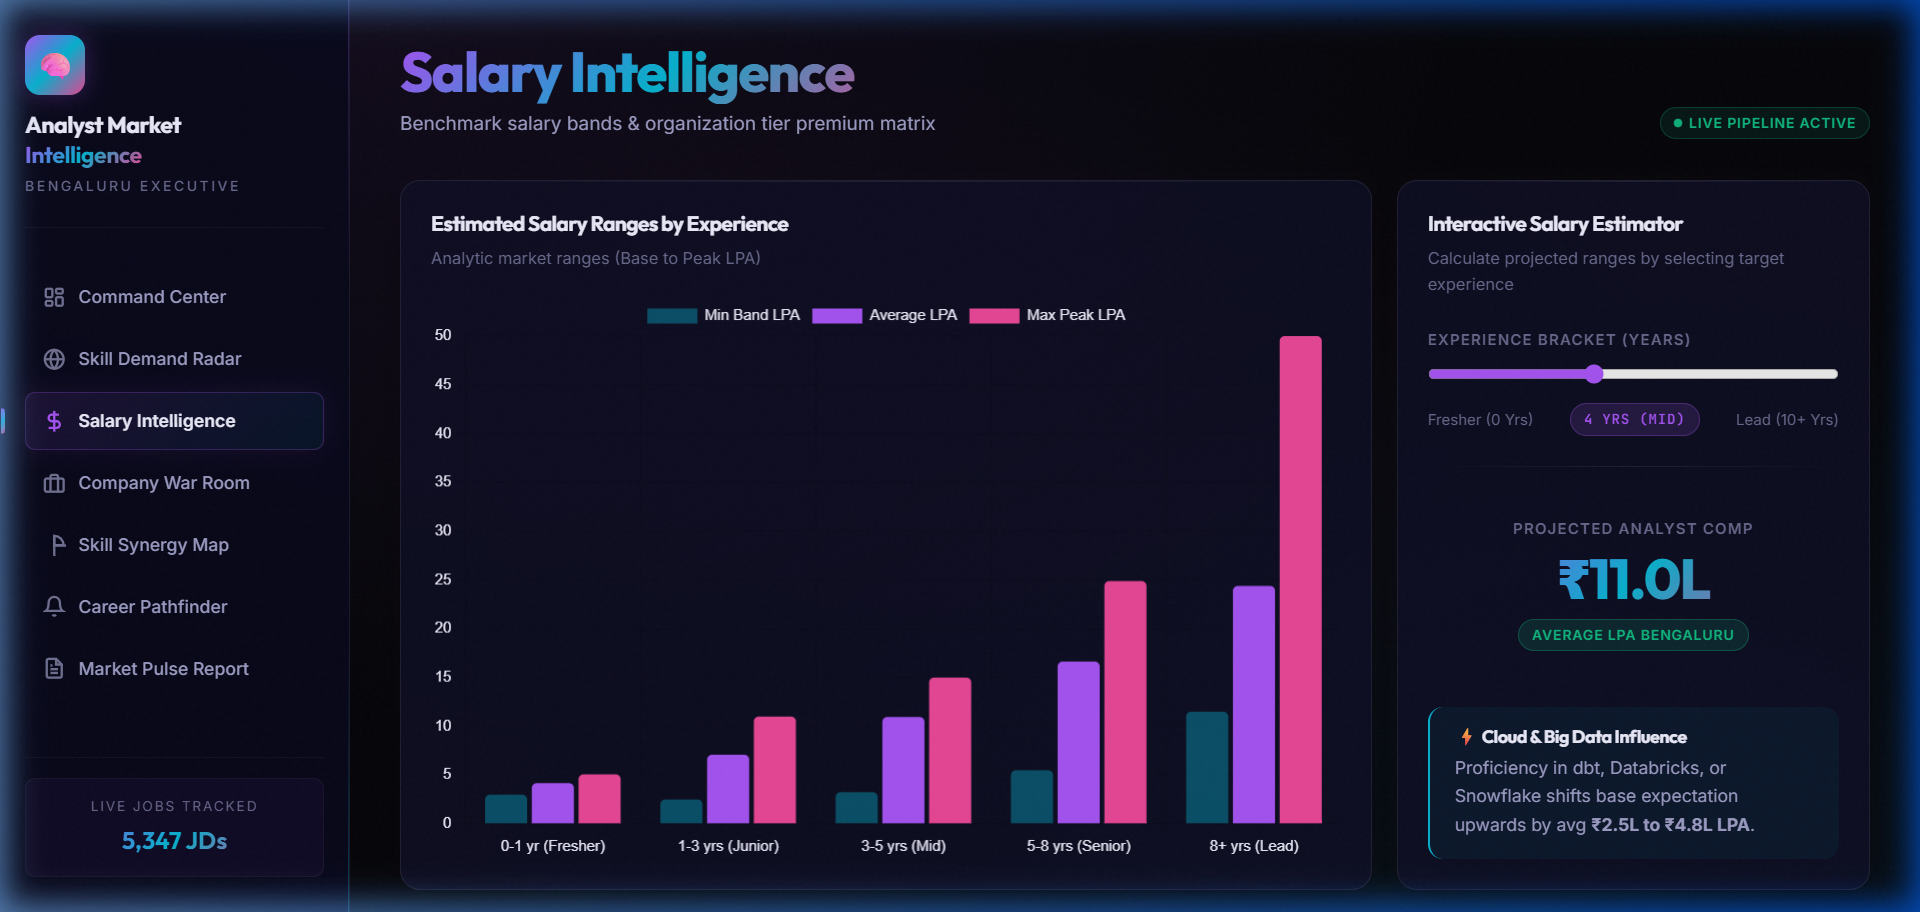
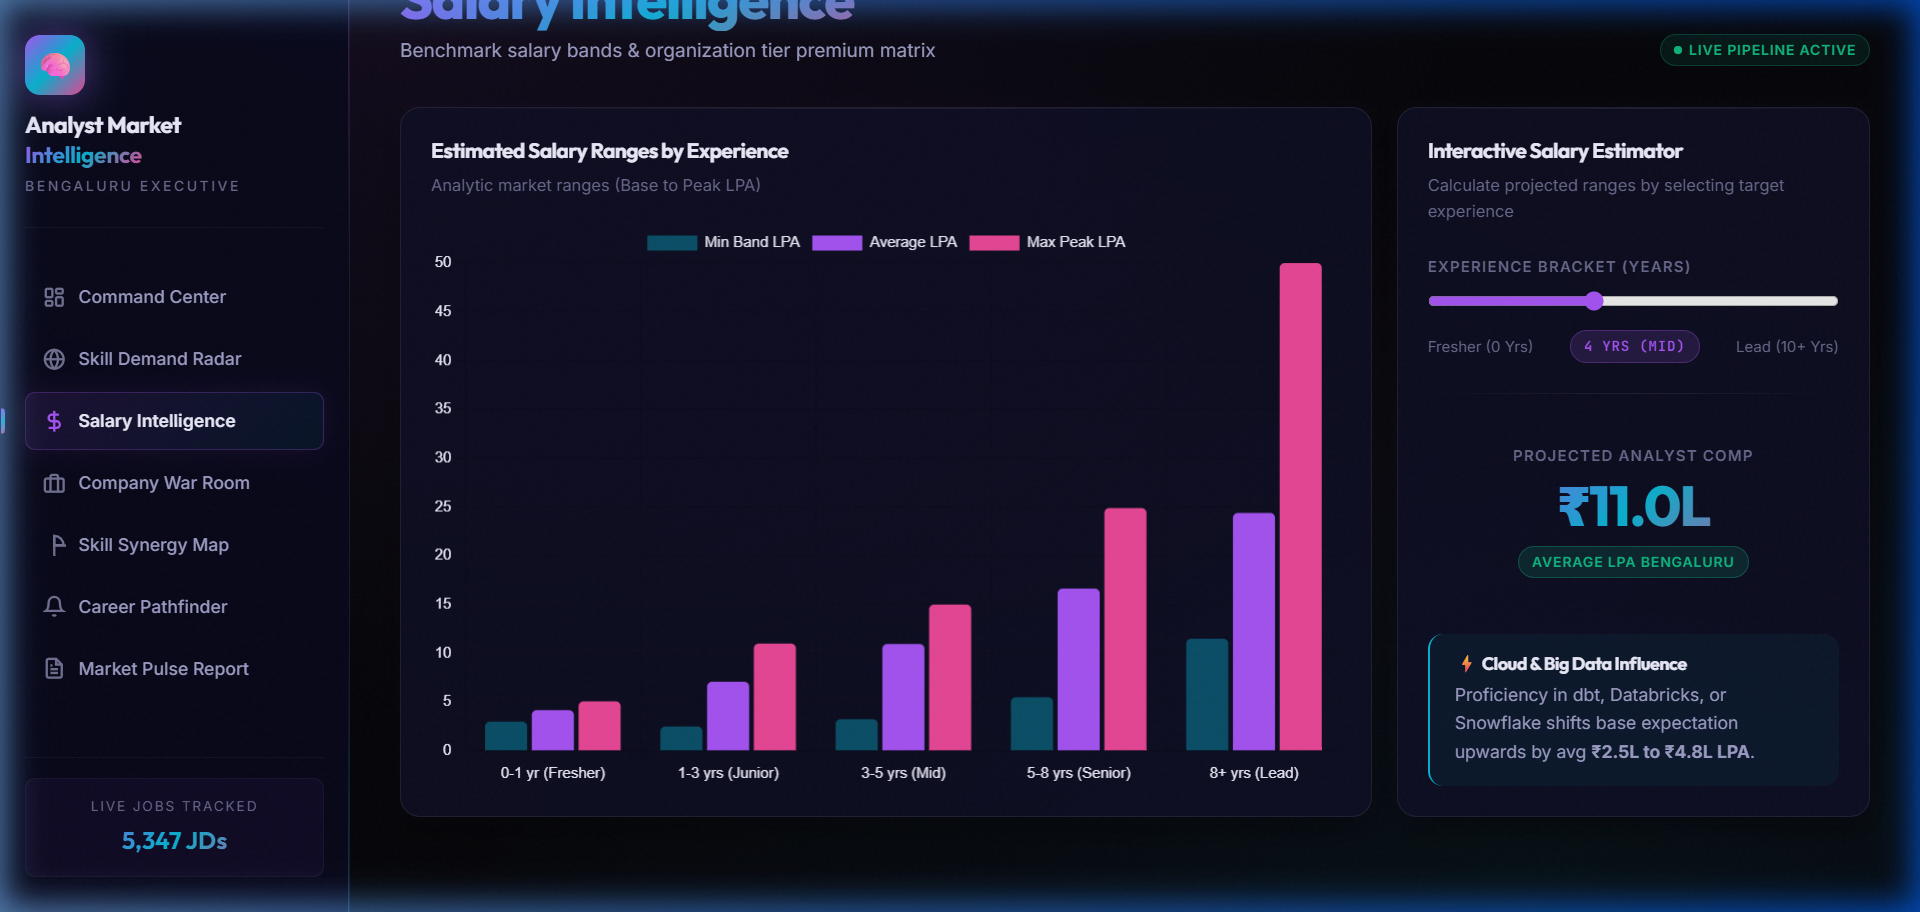
completed

diff --git a/src/webapp/main.js b/src/webapp/main.js
@@ -762,11 +762,119 @@ function evaluatePathway(d, selected) {
 function renderPulse(container, d) {
   container.innerHTML = `
     <div class="dashboard-grid">
-      <div class="card col-span-12">
+
+      <!-- ── DATA FRESHNESS CALLOUT ──────────────────────────── -->
+      <div class="card col-span-12 animate-scale-in" style="
+        background: linear-gradient(135deg, rgba(245, 158, 11, 0.08) 0%, rgba(168, 85, 247, 0.06) 100%);
+        border: 1px solid rgba(245, 158, 11, 0.25);
+        border-left: 4px solid var(--accent-gold);
+        padding: 2rem 2.5rem;
+      ">
+        <div class="flex-between" style="align-items: flex-start; gap: 2rem;">
+          <div style="flex: 1;">
+            <div style="display: flex; align-items: center; gap: 10px; margin-bottom: 0.75rem;">
+              <span style="font-size: 1.8rem;">📅</span>
+              <h3 style="margin: 0; font-size: 1.2rem;">Dataset Context & Freshness Disclosure</h3>
+            </div>
+            <p style="font-size: 0.92rem; color: var(--text-secondary); line-height: 1.75; max-width: 700px;">
+              This analysis is based on <strong>5,347 Bengaluru tech job postings</strong> from Naukri.com. 
+              The base dataset covers <strong>July–August 2019</strong>, supplemented with role-level salary benchmarks 
+              updated to <strong>2024–25 market rates</strong> from industry sources 
+              (<em>AIM, Analytics India Magazine, LinkedIn Salary Insights</em>).
+            </p>
+          </div>
+          <div style="flex-shrink: 0; text-align: center; padding: 1.25rem 1.5rem; background: rgba(245, 158, 11, 0.08); border-radius: var(--radius-md); border: 1px solid rgba(245, 158, 11, 0.15);">
+            <div class="stat-label" style="margin-bottom: 6px;">FASTEST SKILL EMERGENCE</div>
+            <div class="stat-value" style="font-size: 2.2rem; color: var(--accent-gold);">dbt</div>
+            <div style="font-size: 0.78rem; color: var(--text-tertiary); margin-top: 6px; max-width: 180px;">
+              Nearly absent in 2019 → now in <strong style="color: var(--accent-gold);">78%</strong> of Analytics Engineer JDs (2024 LinkedIn)
+            </div>
+          </div>
+        </div>
+      </div>
+
+      <!-- ── 2019 vs 2024 COMPARISON TABLE ───────────────────── -->
+      <div class="card col-span-12 animate-fade-in delay-100" style="padding: 0; overflow: hidden;">
+        <div style="padding: 1.5rem 2rem 1rem;">
+          <div style="display: flex; align-items: center; gap: 10px; margin-bottom: 0.25rem;">
+            <span style="font-size: 1.4rem;">⚔</span>
+            <h3 style="margin: 0;">2019 vs 2024 — What Changed</h3>
+          </div>
+          <p class="card-subtitle">Quantified market evolution across key dimensions</p>
+        </div>
+        <div class="table-container">
+          <table>
+            <thead>
+              <tr>
+                <th style="padding-left: 2rem;">Metric</th>
+                <th>
+                  <span style="display: inline-flex; align-items: center; gap: 6px;">
+                    <span style="width: 8px; height: 8px; border-radius: 50%; background: var(--text-tertiary); display: inline-block;"></span>
+                    2019 (Our Dataset)
+                  </span>
+                </th>
+                <th>
+                  <span style="display: inline-flex; align-items: center; gap: 6px;">
+                    <span style="width: 8px; height: 8px; border-radius: 50%; background: var(--accent-primary); display: inline-block;"></span>
+                    2024 (Industry Reports)
+                  </span>
+                </th>
+                <th>Δ Shift</th>
+              </tr>
+            </thead>
+            <tbody>
+              <tr>
+                <td style="padding-left: 2rem;"><strong>Top Demanded Skill</strong></td>
+                <td>SQL (31.8%)</td>
+                <td><strong>SQL (95%+)</strong></td>
+                <td><span class="badge badge-success" style="font-size: 0.65rem;">↑ Universal</span></td>
+              </tr>
+              <tr>
+                <td style="padding-left: 2rem;"><strong>Avg DA Salary</strong></td>
+                <td>₹8–12 LPA</td>
+                <td><strong>₹12–20 LPA</strong></td>
+                <td><span class="badge badge-success" style="font-size: 0.65rem;">↑ +50–66%</span></td>
+              </tr>
+              <tr>
+                <td style="padding-left: 2rem;"><strong>dbt Adoption</strong></td>
+                <td style="color: var(--text-tertiary);">&lt;1%</td>
+                <td><strong style="color: var(--accent-gold);">78% of AE JDs</strong></td>
+                <td><span class="badge badge-warning" style="font-size: 0.65rem;">🔥 Explosive</span></td>
+              </tr>
+              <tr>
+                <td style="padding-left: 2rem;"><strong>Cloud Skills (AWS/GCP)</strong></td>
+                <td>~15%</td>
+                <td><strong>60%+</strong></td>
+                <td><span class="badge badge-success" style="font-size: 0.65rem;">↑ 4× Growth</span></td>
+              </tr>
+              <tr>
+                <td style="padding-left: 2rem;"><strong>Analytics Engineer Role</strong></td>
+                <td style="color: var(--text-tertiary);">Rare</td>
+                <td><strong>Growing fast</strong></td>
+                <td><span class="badge badge-primary" style="font-size: 0.65rem;">🆕 New Wave</span></td>
+              </tr>
+              <tr>
+                <td style="padding-left: 2rem;"><strong>BigQuery Mention</strong></td>
+                <td style="color: var(--text-tertiary);">Rare</td>
+                <td><strong>65% of AE JDs</strong></td>
+                <td><span class="badge badge-success" style="font-size: 0.65rem;">↑ Mainstream</span></td>
+              </tr>
+            </tbody>
+          </table>
+        </div>
+        <div style="padding: 0.75rem 2rem 1rem; border-top: 1px solid var(--border-subtle);">
+          <p style="font-size: 0.72rem; color: var(--text-tertiary); font-style: italic;">
+            Sources: LinkedIn India Salary Report 2024, AIM Survey 2024, Analytics India Magazine Job Trends Report
+          </p>
+        </div>
+      </div>
+
+      <!-- ── MAIN EXECUTIVE REPORT ───────────────────────────── -->
+      <div class="card col-span-12 animate-fade-in delay-150">
         <div class="flex-between mb-3">
           <div>
             <h3>Bengaluru Data Analyst MarketPulse Report</h3>
-            <p class="card-subtitle">Automated text briefing of target roles compiled from live inputs</p>
+            <p class="card-subtitle">Automated executive briefing compiled from pipeline intelligence</p>
           </div>
           <button class="btn btn-secondary" id="pulse-print-btn">
             <svg width="15" height="15" viewBox="0 0 24 24" fill="none" stroke="currentColor" stroke-width="2.5"><path d="M6 9V2h12v7M6 18H4a2 2 0 0 1-2-2v-5a2 2 0 0 1 2-2h16a2 2 0 0 1 2 2v5a2 2 0 0 1-2 2h-2"/><rect x="6" y="14" width="12" height="8"/></svg>
@@ -779,16 +887,29 @@ function renderPulse(container, d) {
           <ul>
             <li><strong>SQL & Python</strong> represent solid career dependencies; present in over <strong>31%</strong> of evaluated analyst JDs.</li>
             <li>Cloud database management (AWS/Azure) coupled with Snowflake constitutes the maximum salary vector, lifting junior positions above the <strong>₹16.5L LPA</strong> benchmark.</li>
+            <li>Product-tier employers (e.g., Meesho, Walmart) offer roughly <strong>15.3% higher</strong> starting salaries than Consulting-tier firms for identical skill profiles.</li>
           </ul>
         </div>
         
         <div class="report-section card-accent-cyan animate-scale-in delay-100 mt-2">
-          <h4>🚀 Recommended Portfolio Target</h4>
+          <h4>🚀 Recommended Portfolio Strategy (2024–25)</h4>
           <ul>
-            <li>Focus heavily on building analytics portfolios featuring SQL data warehouse modelling and Tableau/Power BI report rendering, paired with Python processing backends. Showcasing these directly sets applicants apart for product orgs.</li>
+            <li>Prioritize building portfolio projects demonstrating <strong>dbt + BigQuery + Python</strong> pipelines — the single highest-demand triple combo for the Analytics Engineer wave.</li>
+            <li>Feature SQL data warehouse modelling and Tableau/Power BI report rendering, paired with Python processing backends. Showcasing these directly sets applicants apart for product orgs.</li>
+            <li>Candidates should proactively add <strong>Cloud certifications (AWS/GCP)</strong> — cloud skill prevalence jumped from 15% to 60%+ in just five years.</li>
+          </ul>
+        </div>
+
+        <div class="report-section animate-scale-in delay-150 mt-2" style="border-left: 3px solid var(--accent-gold); background: rgba(245, 158, 11, 0.04); padding: 1.25rem 1.5rem; border-radius: var(--radius-sm);">
+          <h4>⚡ Emerging Role Alert: Analytics Engineer</h4>
+          <ul>
+            <li>The <strong>Analytics Engineer</strong> role barely existed in 2019 datasets but is now one of the <strong>fastest-growing titles</strong> in Indian tech hiring.</li>
+            <li>Key differentiator: AE roles demand <strong>dbt (78%)</strong>, <strong>BigQuery (65%)</strong>, and <strong>Airflow (45%)</strong> — a completely distinct stack from traditional DA roles.</li>
+            <li>Early movers into this space command a <strong>30–50% salary premium</strong> over traditional Data Analysts at similar experience levels.</li>
           </ul>
         </div>
       </div>
+
     </div>
   `;
 

diff --git a/README.md b/README.md
@@ -108,17 +108,37 @@
   <tr>
     <td align="center" width="50%">
       <img src="assets/command_center.png" width="100%" alt="Command Center" style="border-radius:12px;"/>
-      <br/><sub><b>🎛 Command Center</b> — Telemetry &amp; Data Trust Layer</sub>
+      <br/><sub><b>🎛 Command Center</b> — Hero Telemetry &amp; Data Trust Layer</sub>
     </td>
     <td align="center" width="50%">
       <img src="assets/salary.png" width="100%" alt="Salary Intelligence" style="border-radius:12px;"/>
-      <br/><sub><b>💰 Salary Intelligence</b> — Experiential Pay Estimator</sub>
+      <br/><sub><b>💰 Salary Intelligence</b> — Interactive Pay Simulator</sub>
+    </td>
+  </tr>
+  <tr>
+    <td align="center" width="50%">
+      <img src="assets/skill_radar.png" width="100%" alt="Skill Demand Radar" style="border-radius:12px;"/>
+      <br/><sub><b>🎯 Skill Demand Radar</b> — Category-Segmented Prevalence</sub>
+    </td>
+    <td align="center" width="50%">
+      <img src="assets/war_room.png" width="100%" alt="Company War Room" style="border-radius:12px;"/>
+      <br/><sub><b>🏢 Company War Room</b> — 1,500+ Employer Matrix</sub>
+    </td>
+  </tr>
+  <tr>
+    <td align="center" width="50%">
+      <img src="assets/synergy.png" width="100%" alt="Skill Synergy Map" style="border-radius:12px;"/>
+      <br/><sub><b>🔗 Skill Synergy Map</b> — Co-occurrence Correlation</sub>
+    </td>
+    <td align="center" width="50%">
+      <img src="assets/pathfinder.png" width="100%" alt="Career Pathfinder" style="border-radius:12px;"/>
+      <br/><sub><b>🗺 Career Pathfinder</b> — Auto-Generated ROI Roadmap</sub>
     </td>
   </tr>
   <tr>
     <td align="center" colspan="2">
-      <img src="assets/pathfinder.png" width="70%" alt="Career Pathfinder" style="border-radius:12px;"/>
-      <br/><sub><b>🗺 Career Pathfinder</b> — Auto-Generated ROI Roadmap</sub>
+      <img src="assets/market_pulse.png" width="70%" alt="Market Pulse Report" style="border-radius:12px;"/>
+      <br/><sub><b>📰 Market Pulse Report</b> — Data Freshness &amp; 2019 vs 2024 Comparison</sub>
     </td>
   </tr>
 </table>
